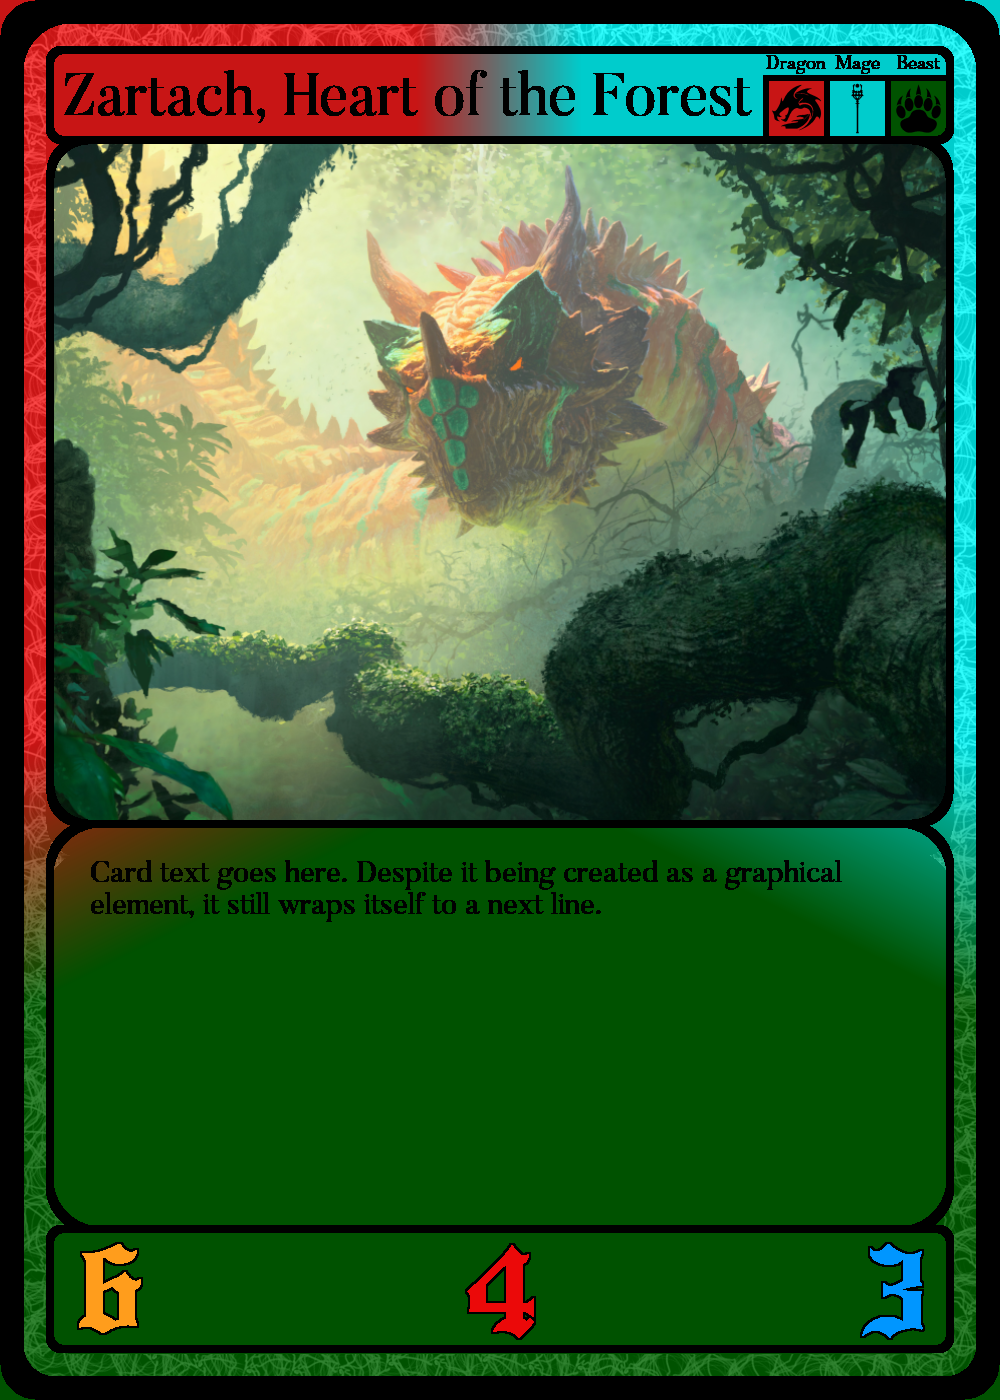
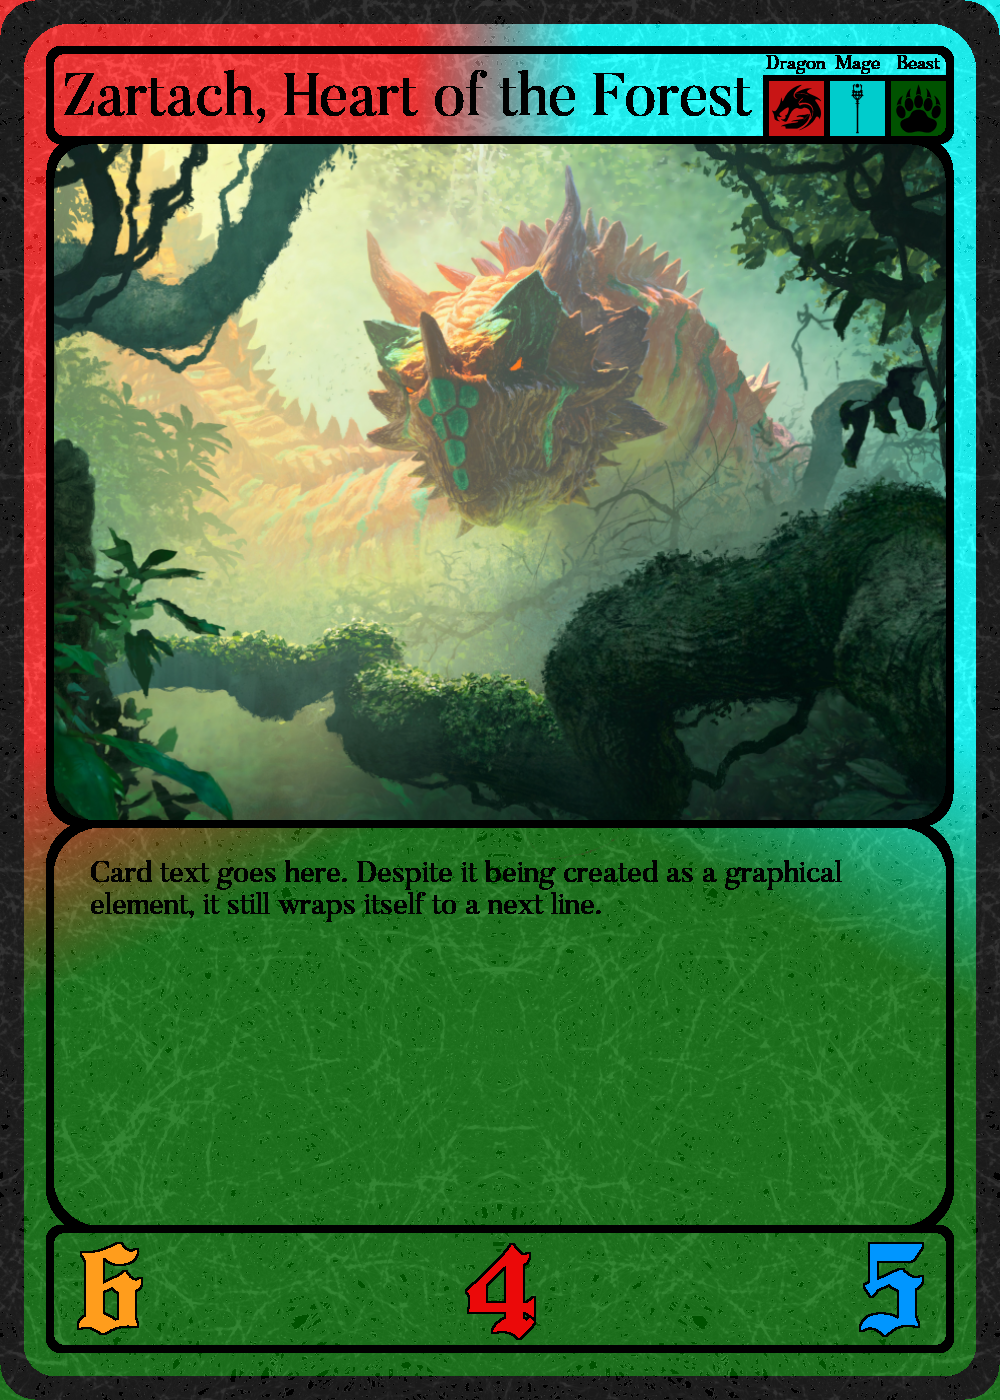
Bug fix, new web pic

diff --git a/RogueProject.py b/RogueProject.py
@@ -103,14 +103,13 @@ COLOUR_DICT = {"Vampire": (42, 42, 42),
                 }
 
 
-# Main class for card
+# Main card class
 class Card:
-    def __init__(self, name, ability_text, mana, attack, health, cost, creature_path, **allegiances):
+    def __init__(self, name, ability_text, power, mana, cost, creature_path, **allegiances):
         self.name = name
         self.ability_text = ability_text
         self.mana = mana
-        self.attack = attack
-        self.health = health
+        self.power = power
         self.cost = cost
         self.creature_path = creature_path
 
@@ -161,10 +160,8 @@ def add_two_images(bottom, top, displacement):
             displaced_top[y + displacement[1], x + displacement[0]] = top[y, x]
 
     output_image[np.where(displaced_top[:, :, 3] >= 0.001)] = displaced_top[np.where(displaced_top[:, :, 3] >= 0.001)]
-    # output_image[np.where(displaced_top[:, :, :3] >= COLOUR_THRESHOLD)] = displaced_top[np.where(displaced_top[:, :, 3] >= COLOUR_THRESHOLD)]
 
     return output_image
-
 
 
 def create_text_image_PIL(text, size, color, font_path):
@@ -348,12 +345,10 @@ def create_angled_gradients(card_colour_image, card_image, rotation_sign, x_plac
 
 
 # Main card generation function
-def create_card(card_template_path, border_template_path, creature_image_path, sparks_path, logos_path, attack, mana, health, cost, ability_text, name_text, allegiences, output_path):
+def create_card(card_template_path, border_template_path, creature_image_path, sparks_path, logos_path, power, mana, cost, ability_text, name_text, allegiences, output_path):
     # Essentially sanitizing database output
-    if attack == "None":
-        attack = "1"
-    if health == "None":
-        health = "1"
+    if power == "None":
+        power = "1"
     if mana == "None":
         mana = "1"
     if cost == "None":
@@ -493,7 +488,7 @@ def create_card(card_template_path, border_template_path, creature_image_path, s
 
     card_colour_image = cv.addWeighted(card_colour_image.copy(), 1, sparks_image.copy(), 0.2, 0.0)
 
-    power_number_image = create_text_image(attack, os.path.join(logos_path, NUMBER_FONT), POWER_NUMBER_SIZE, POWER_NUMBER_COLOR)
+    power_number_image = create_text_image(power, os.path.join(logos_path, NUMBER_FONT), POWER_NUMBER_SIZE, POWER_NUMBER_COLOR)
     power_number_image = image_outline(power_number_image)
 
     mana_number_image = create_text_image(mana, os.path.join(logos_path, NUMBER_FONT), MANA_NUMBER_SIZE, MANA_NUMBER_COLOR)
@@ -618,7 +613,7 @@ def read_database(db_path):
     record_list = [a for a in cursor.execute("SELECT * FROM CARDS")]
     cards = []
     for record in record_list:
-        cards.append(Card(record[1], record[2], record[3], record[4], record[5], record[6], record[7], vampire=record[8], dragon=record[9], human=record[10], horror=record[11], demon=record[12], undead=record[13], construct=record[14], angel=record[15], warrior=record[16], mage=record[17], beast=record[18], knight=record[19], hunter=record[20], noble=record[21]))
+        cards.append(Card(record[1], record[2], record[3], record[4], record[5], record[6], vampire=record[7], dragon=record[8], human=record[9], horror=record[10], demon=record[11], undead=record[12], construct=record[13], angel=record[14], warrior=record[15], mage=record[16], beast=record[17], knight=record[18], hunter=record[19], noble=record[20]))
 
     connection.close()
 
@@ -651,9 +646,8 @@ def main():
                         os.path.join(default_path, characters_directory, card.creature_path),
                         sparks_template_path,
                         os.path.join(default_path, "Templates"),
-                        str(card.attack),
+                        str(card.power),
                         str(card.mana),
-                        str(card.health),
                         str(card.cost),
                         str(card.ability_text),
                         str(card.name),
